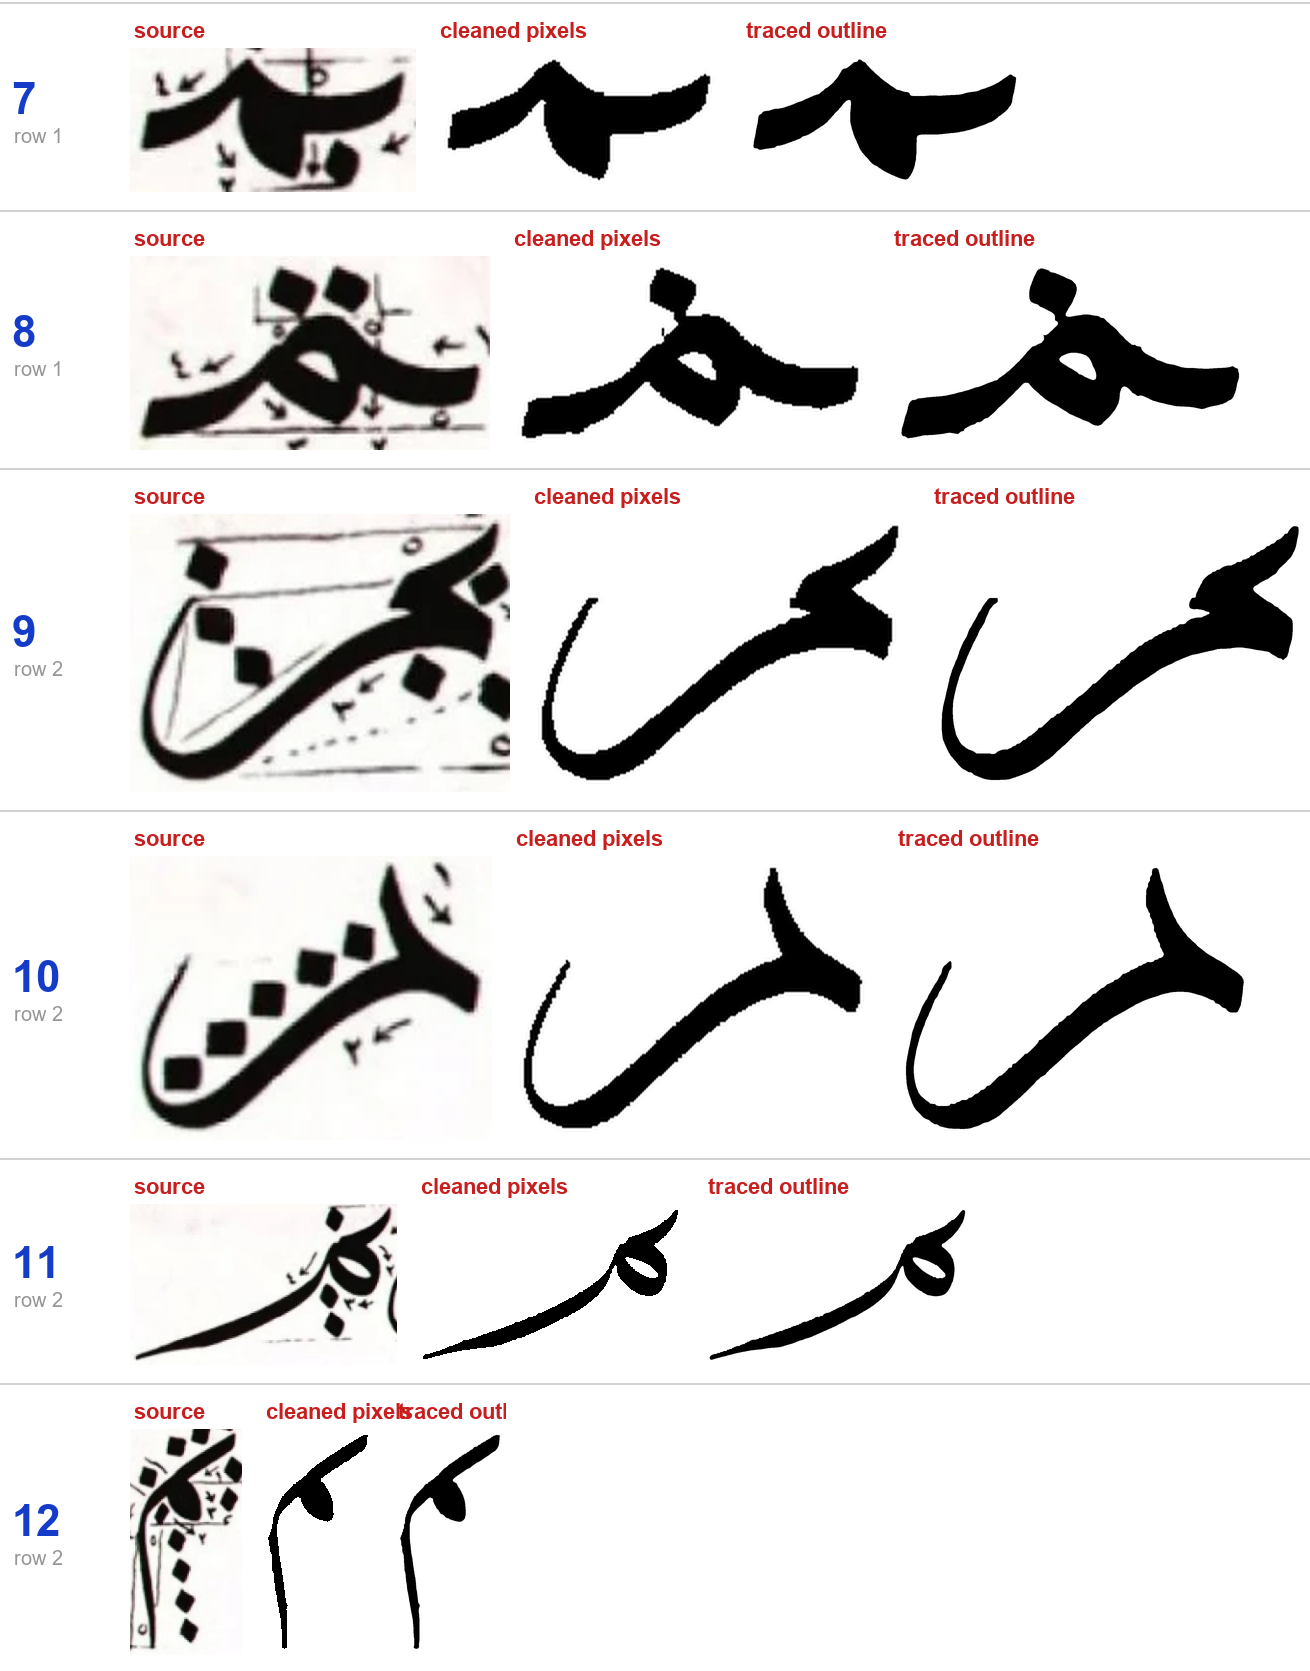
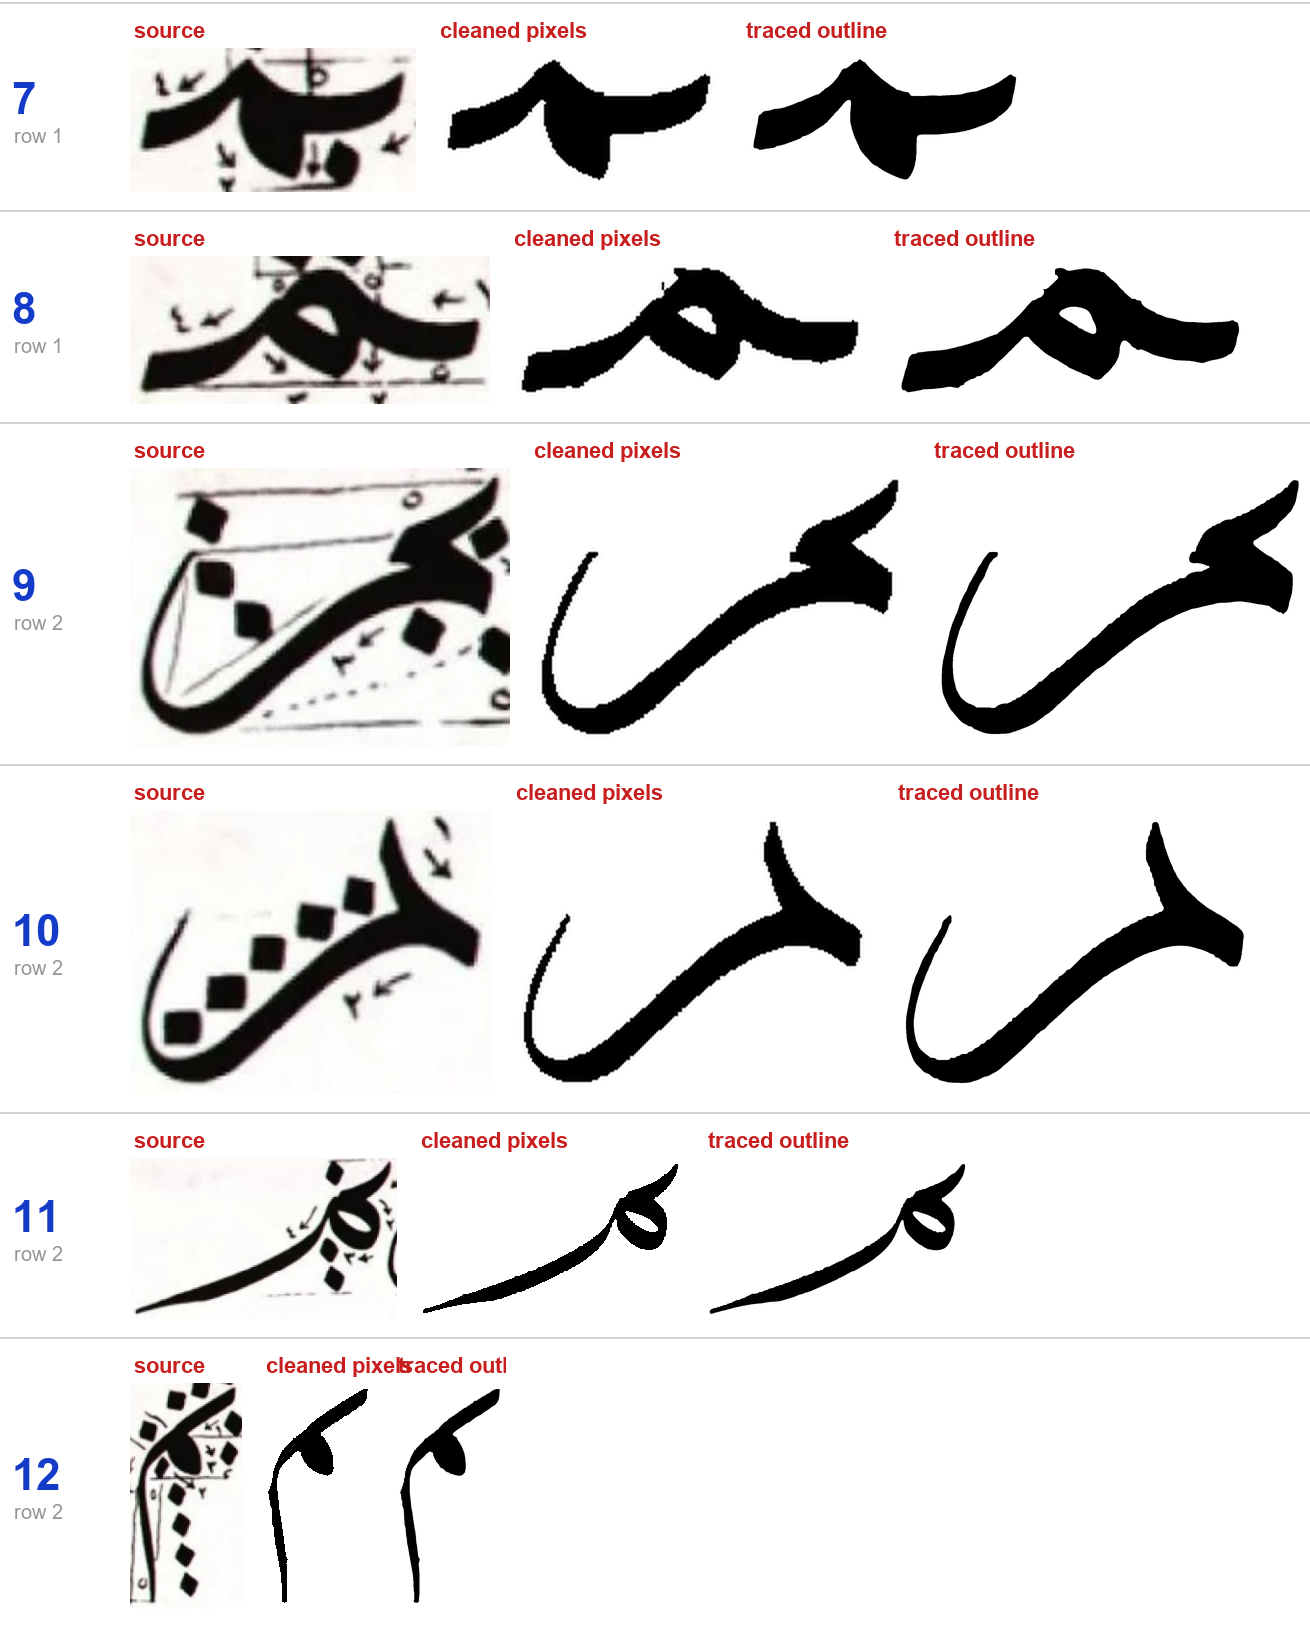
Erase two more marking nuqtas; record the user's answers on dotted outlines, the kaf in حكما, panels and frames
Claude-Session: https://claude.ai/code/session_01XKSn9LffW5ruEBSXbs53N4

diff --git a/scripts/marks/thuluth/review.py b/scripts/marks/thuluth/review.py
@@ -477,9 +477,9 @@ DRAFT_ERASE = {
   # measuring nuqtas fused between the uprights and in the joins; small ticks
   "t19r1": {1: [("lines", 4), "main"], 2: [("lines", 4), "main"]},   # ruled lines in ink
   "t17r6": {5: [(797, 118, 823, 141), (823, 116, 846, 139), (744, 225, 753, 236), "main"],
-            6: [(531, 180, 551, 210), "main"],
+            6: [(531, 180, 551, 210), (583, 161, 604, 185), "main"],   # + the marking nuqta inside the waw's head (the user)
             7: [(203, 183, 216, 196), "main"]},
-  "t16r1": {8: [(347, 198, 365, 219), "main"], 9: [(85, 195, 91, 202), (114, 246, 125, 251), "main"],
+  "t16r1": {8: [(347, 198, 365, 219), "main"], 9: [(85, 195, 91, 202), (114, 246, 125, 251), (83, 163, 110, 190), "main"],   # + the marking nuqta on the meem (the user)
             1: [("lines", 5), "main"], 10: [("lines", 5), (1610, 201, 1630, 223), (1651, 205, 1672, 228), (1651, 158, 1668, 182), "main", ("add", 1725, 150)]},
   "t15r3": {**{n: [("lines", 5), "main"] for n in (5, 7, 8, 9)},
             # the row of measuring nuqtas on its line, and the nuqtas on the bowl

diff --git a/scripts/marks/thuluth/REVIEW.md b/scripts/marks/thuluth/REVIEW.md
@@ -1364,13 +1364,19 @@ traced into the app. Questions to settle with the user during review:
 3. ~~Script of `thuluth-21-basmala-b.png` and `thuluth-26-closing.png`?~~
    Answered: Naskh. Both stay out of the Thuluth set.
 4. t17 row 5: which pieces the note "١-٢" means, and what the big dotted
-   overlay stands for; the words in t17 row 3.
-5. t14 row 4 (حكما): is it the example for "الكاف السيفي المفرد والوسط"?
+   overlay stands for; the words in t17 row 3. The user (2026-10-17): the
+   dotted outlines on these sheets show where other marks would go, for
+   instance when something joins there; the user will check the original
+   for "١-٢".
+5. ~~t14 row 4 (حكما)~~ Answered (the user, 2026-10-17): the kaf there is
+   the starting form, set beside the ha's body to show their angles match:
+   that portion is the same stroke.
 6. Readings marked "to confirm": t13 row 3, t15 rows 2–3, t17 row 6, t19's
    practice words and side note, t23 (al-Ahzab 33:14), t25 (the small
    block), t29 (al-Fath 48:10), t31 (al-Naml 27:6).
-7. Whether to use the corner florals (t24) and the tiled border (t25
-   hadith) as frame pieces at all.
+7. ~~Whether to use the corner florals (t24) and the tiled border (t25
+   hadith) as frame pieces~~ Yes (the user, 2026-10-17). And the panels
+   (t20-t32) are to be traced whole, as compositions. Both still to do.
 8. ~~Whether to keep t13 piece 8 (the Muhaqqaq waw) anywhere.~~ Deleted 2026-10-17.
 
 **Stroke-order numbers and arrows must go before tracing** (user,
@@ -1543,12 +1549,12 @@ Judgment calls for the user to confirm rather than re-review:
   the earlier approved two-word pieces.
 - t15 10 (row 2 · 7): the dot inside the curl is a measuring mark (the
   user, 2026-10-17); erased.
-- t16 8 (row 1 · 9): the dark square on top of the medial meem was kept as
-  the pen's start, not a nuqta.
+- t16 8 (row 1 · 9): the dark square on top of the meem is a marking nuqta
+  (the user, 2026-10-17); erased.
 - t17 18 (row 6 · 4), a construction drawing: **skipped** (the user,
   2026-10-17).
-- t17 20 (row 6 · 6): the dark shape inside the waw's head is kept as the
-  pen's turn.
+- t17 20 (row 6 · 6): the dark shape inside the waw's head is a marking
+  nuqta too (the user, 2026-10-17); erased.
 
 ## Hand touch-ups (`touchup/`)
 
